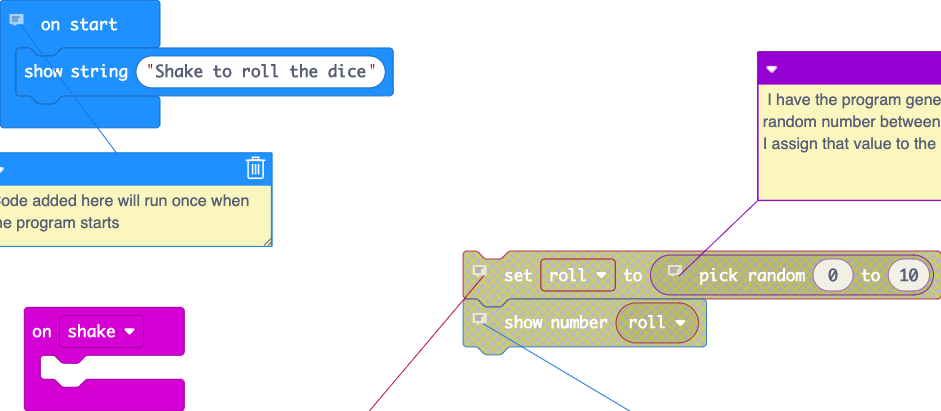
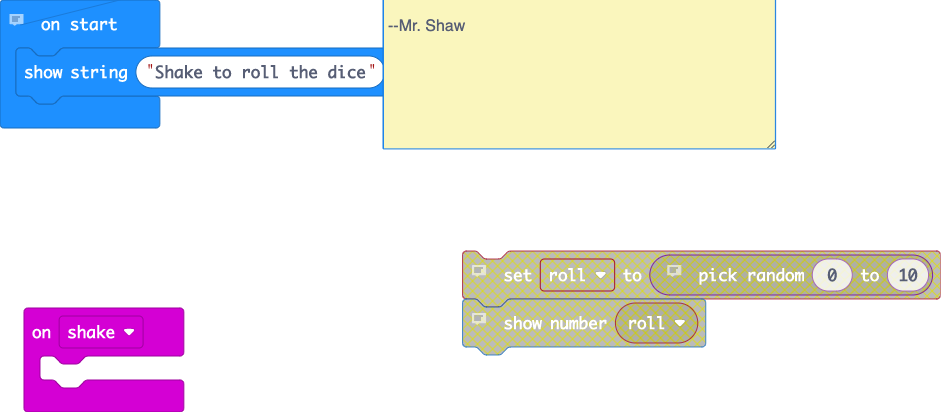
Teacher Feedback

diff --git a/main.ts b/main.ts
@@ -1,5 +1,8 @@
 input.onGesture(Gesture.Shake, function () {
 	
 })
-// Code added here will run once when the program starts
+// Hi Addison,
+// I'm not seeing any progress on your project. Please let me know if you have having any difficulty, so I can make sure you don't fall behind.
+// 
+// --Mr. Shaw
 basic.showString("Shake to roll the dice")
